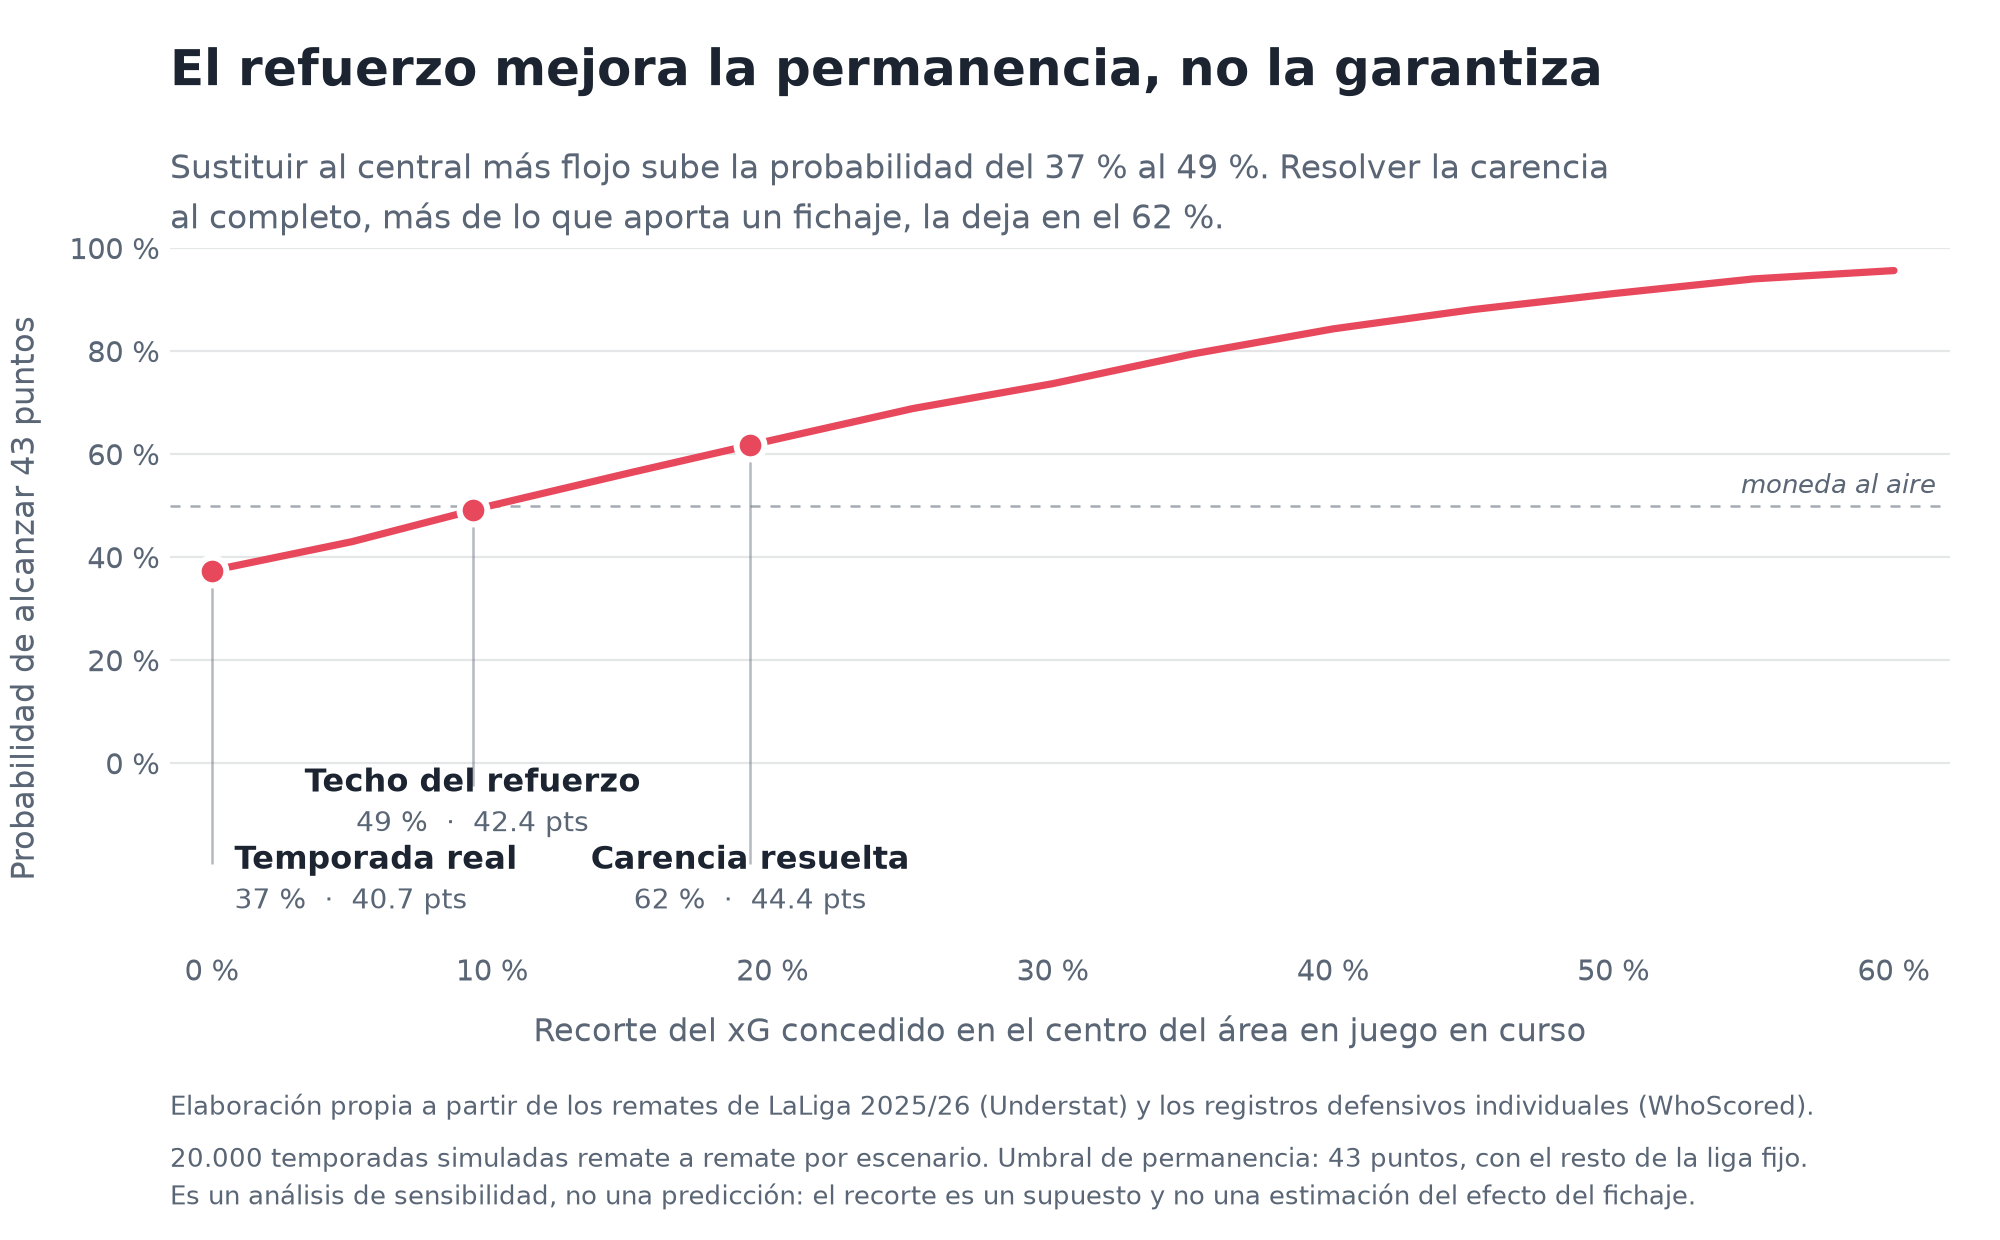
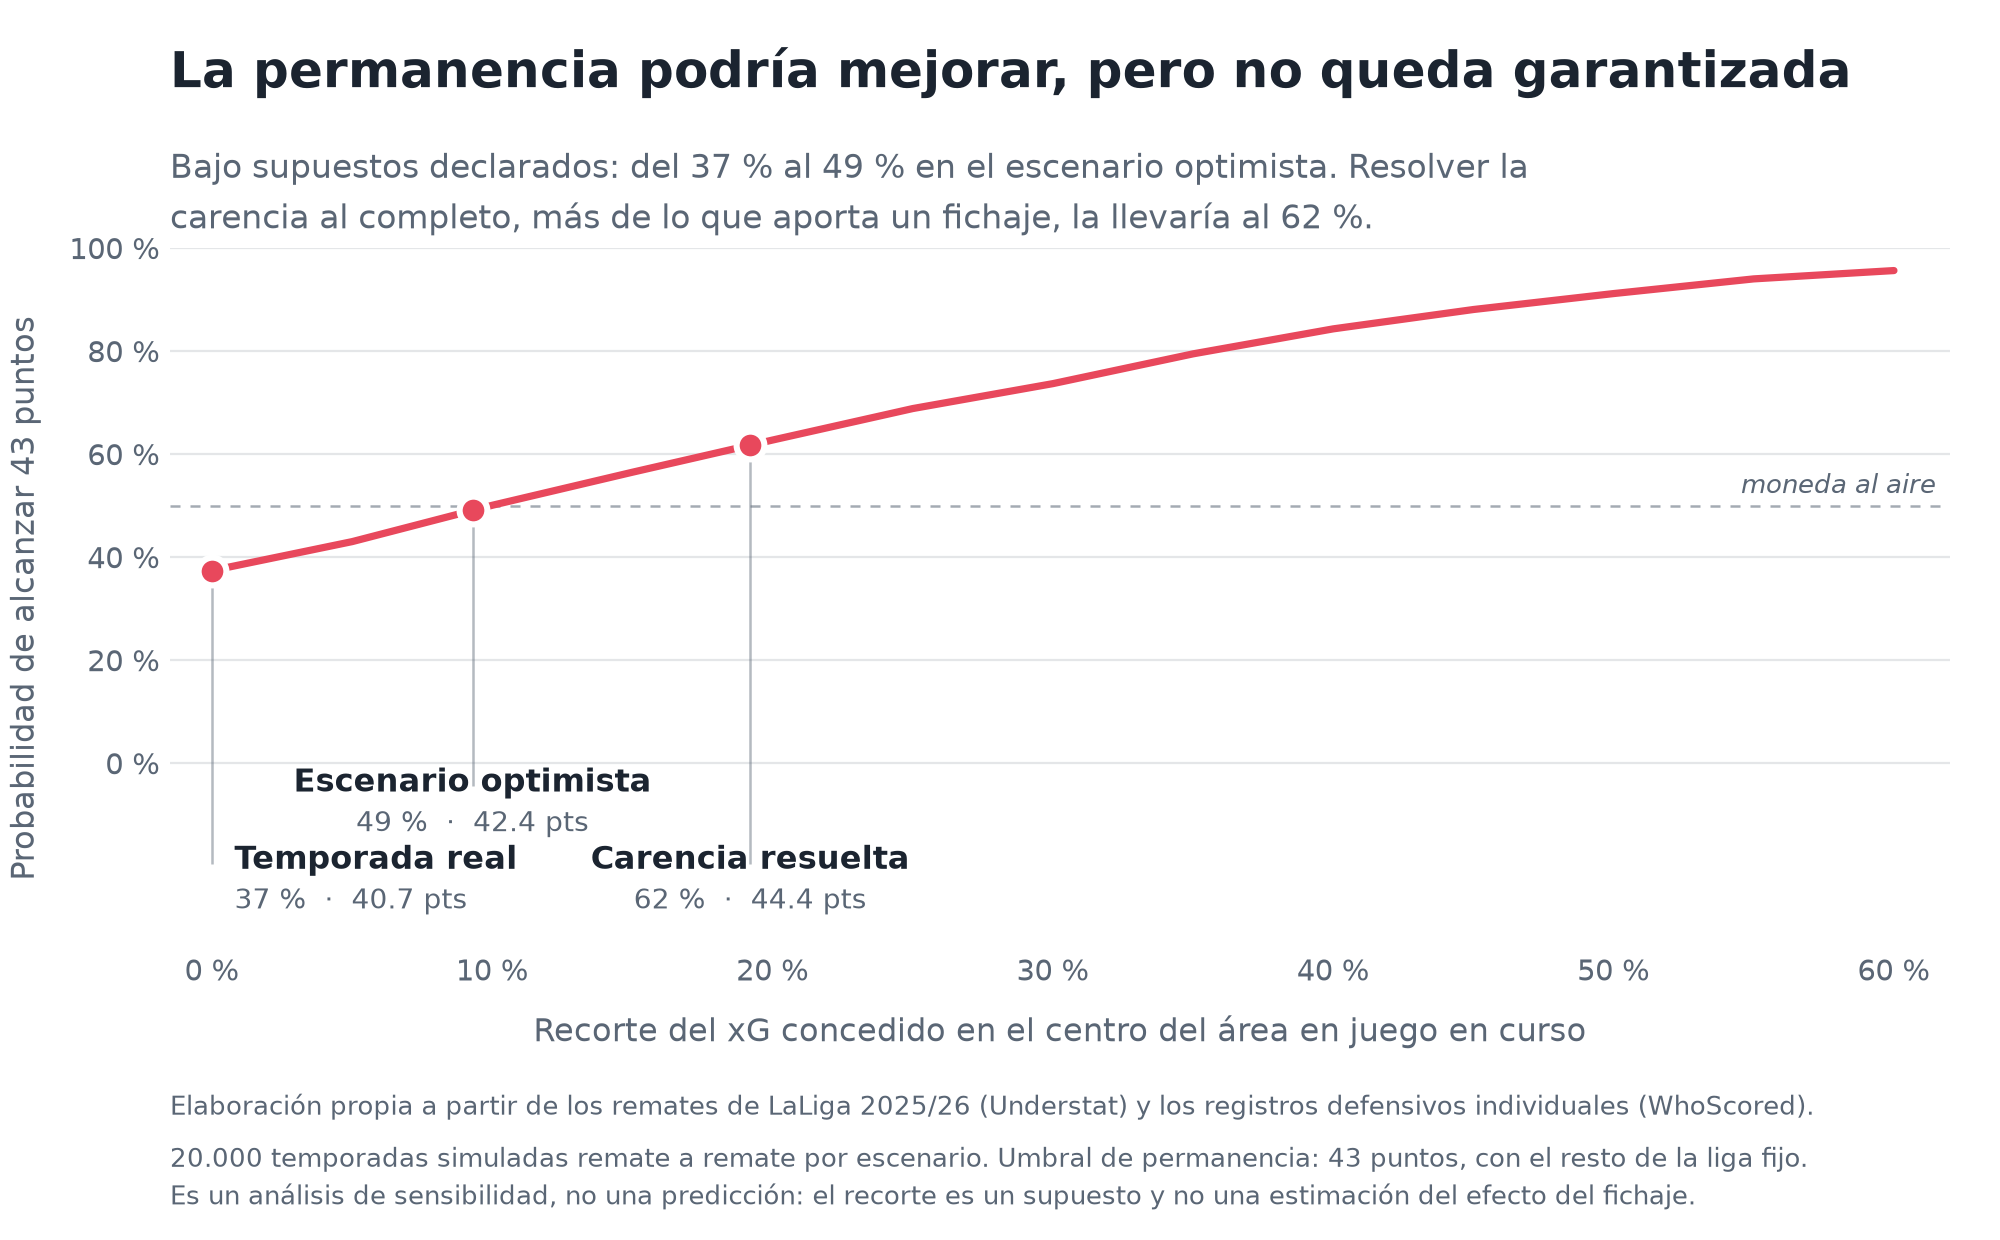
Elimina la redacción causal que quedaba en el README, el 04 y la figura del 06
El recorte del 9,3 % pasa a llamarse escenario optimista también en el
encabezado del apartado 3, en los textos impresos, en la figura y en su pie.
El título de la figura y la fila del README dejan de afirmar que el refuerzo
mejora la permanencia. No cambia ningún cálculo ni ninguna cifra.

Changed region(s): [[0.093, 0.0306, 0.93, 0.0919], [0.093, 0.1226, 0.806, 0.1839], [0.124, 0.6129, 0.341, 0.6435]]

diff --git a/README.md b/README.md
@@ -14,7 +14,7 @@ Trabajo de Fin de Máster del Máster en Big Data e Inteligencia Artificial en e
 | El problema estaba en el centro de su área | +7,4 goles esperados de más, el 64 % del desfase en juego en curso |
 | Ninguno de sus centrales anticipaba | Percentiles 10, 19 y 38 en intercepciones frente a 21 centrales de control |
 | La criba deja ocho candidatos | 65 centrales, 33 en el rango de minutos, 8 pasan los cuatro criterios |
-| Diego Llorente mejora la permanencia, no la garantiza | 2,06 intercepciones por 90; la probabilidad pasa del 37,4 % al 49,1 % |
+| El refuerzo podría mejorar la permanencia, sin garantizarla | Diego Llorente, 2,06 intercepciones por 90; en el escenario optimista, del 37,4 % al 49,1 % |
 
 ---
 
